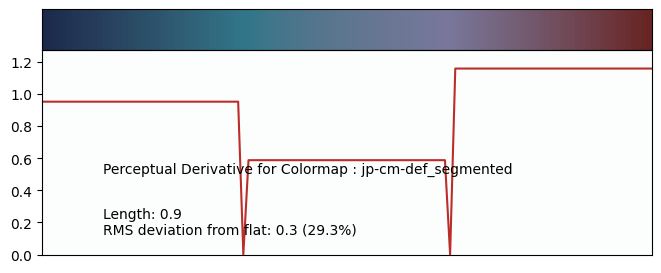
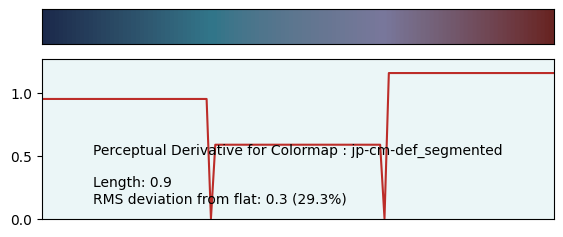
update readme

Changed region(s): [[0.0, 0.0295, 0.9964, 0.9747]]

diff --git a/gen/gen.py b/gen/gen.py
@@ -108,8 +108,14 @@ def calculatePD(gradient, RGB, name):
     ax.set_ylim(0, delta_ymax(local_derivs))
     ax.get_xaxis().set_visible(False)
     ax.margins(0.0)
-    ax.set_facecolor(aijiro_alph)
+    ax.set_facecolor(aijiro)
     # fig.tight_layout()
+    plt.subplots_adjust(left=0.1,
+                    bottom=0.1, 
+                    right=0.9, 
+                    top=0.9, 
+                    wspace=0.4, 
+                    hspace=0.4)
     return fig
 
 def gen_cmaps(cmaps,segmented=False):
